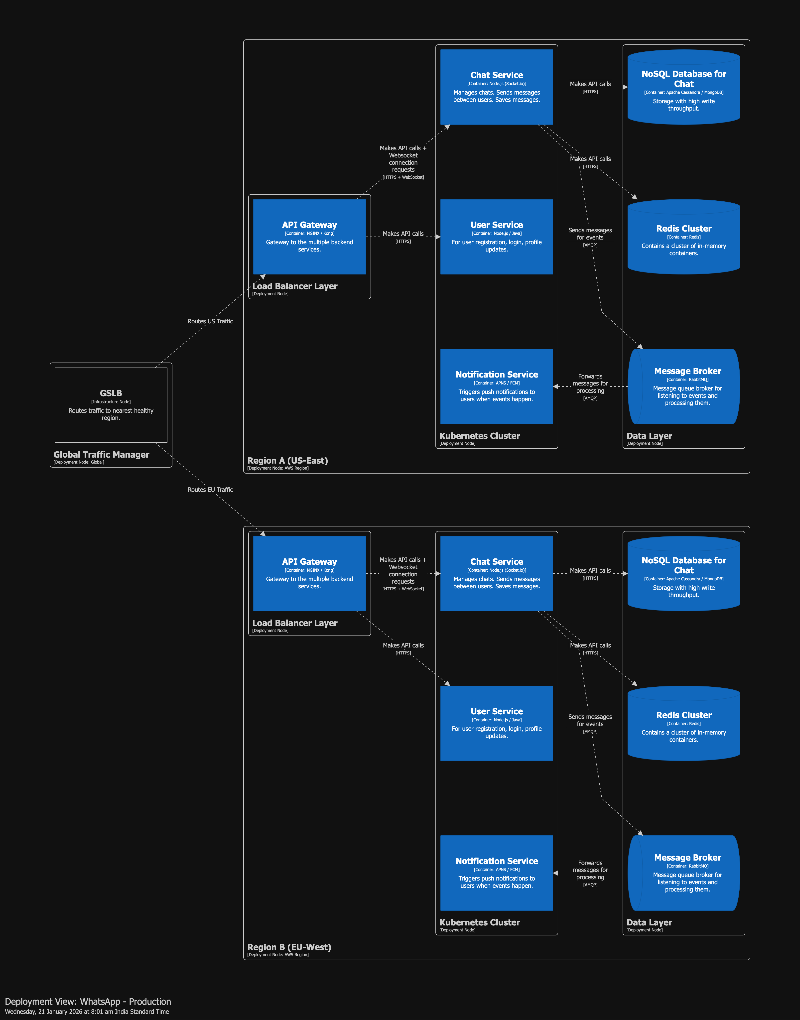
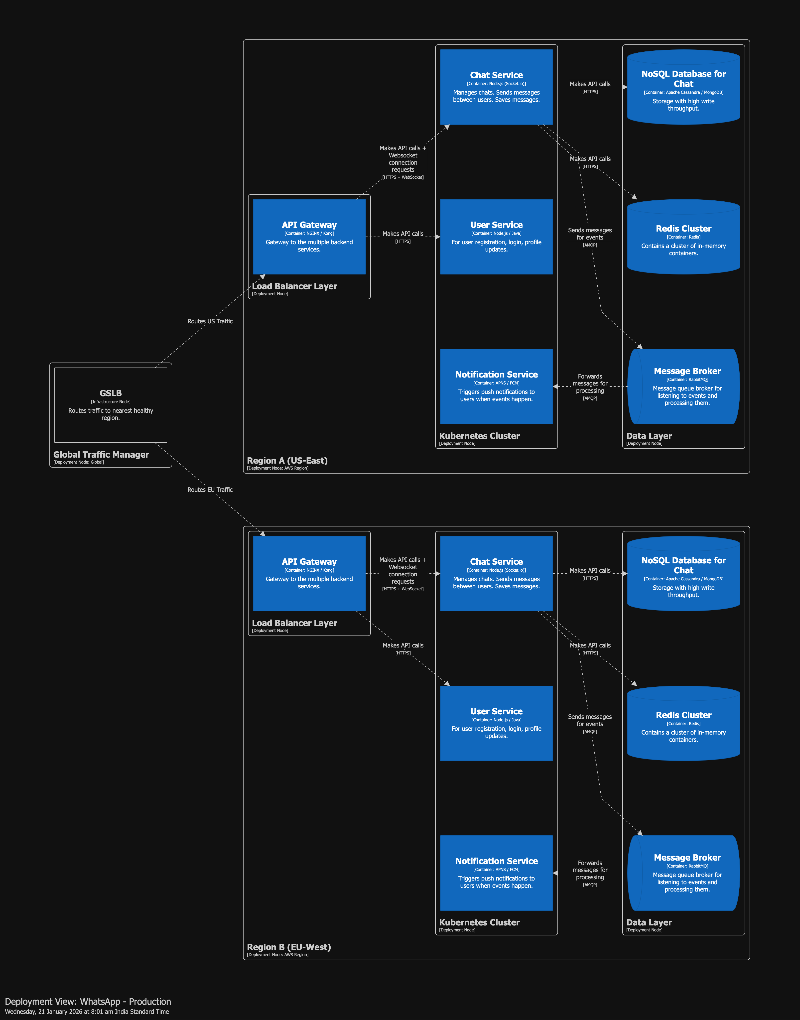
update diagram paths in design

diff --git a/designs/whatsapp/design.md b/designs/whatsapp/design.md
@@ -75,9 +75,9 @@ whatsapp is a communicator app - it includes 1:1 messaging, group chats, 1:1 cal
 
 ![Diagram](./assets/c2.png)
 
-# C3
+# Deployment
 
-![Diagram](./assets/c3.png)
+![Diagram](./assets/deployment.png)
 
 # To show user online/offline status
 
